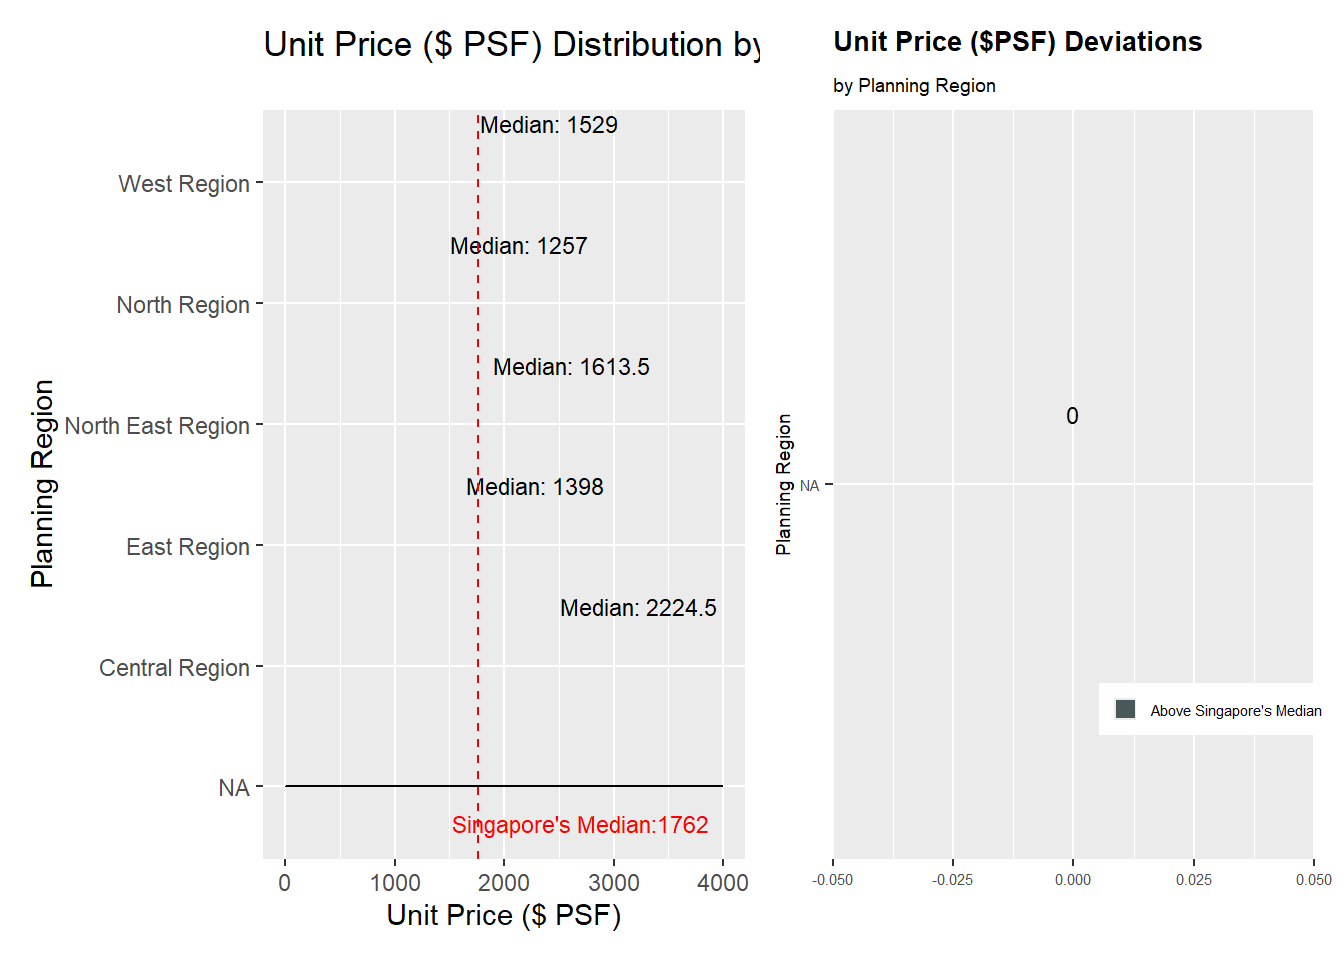
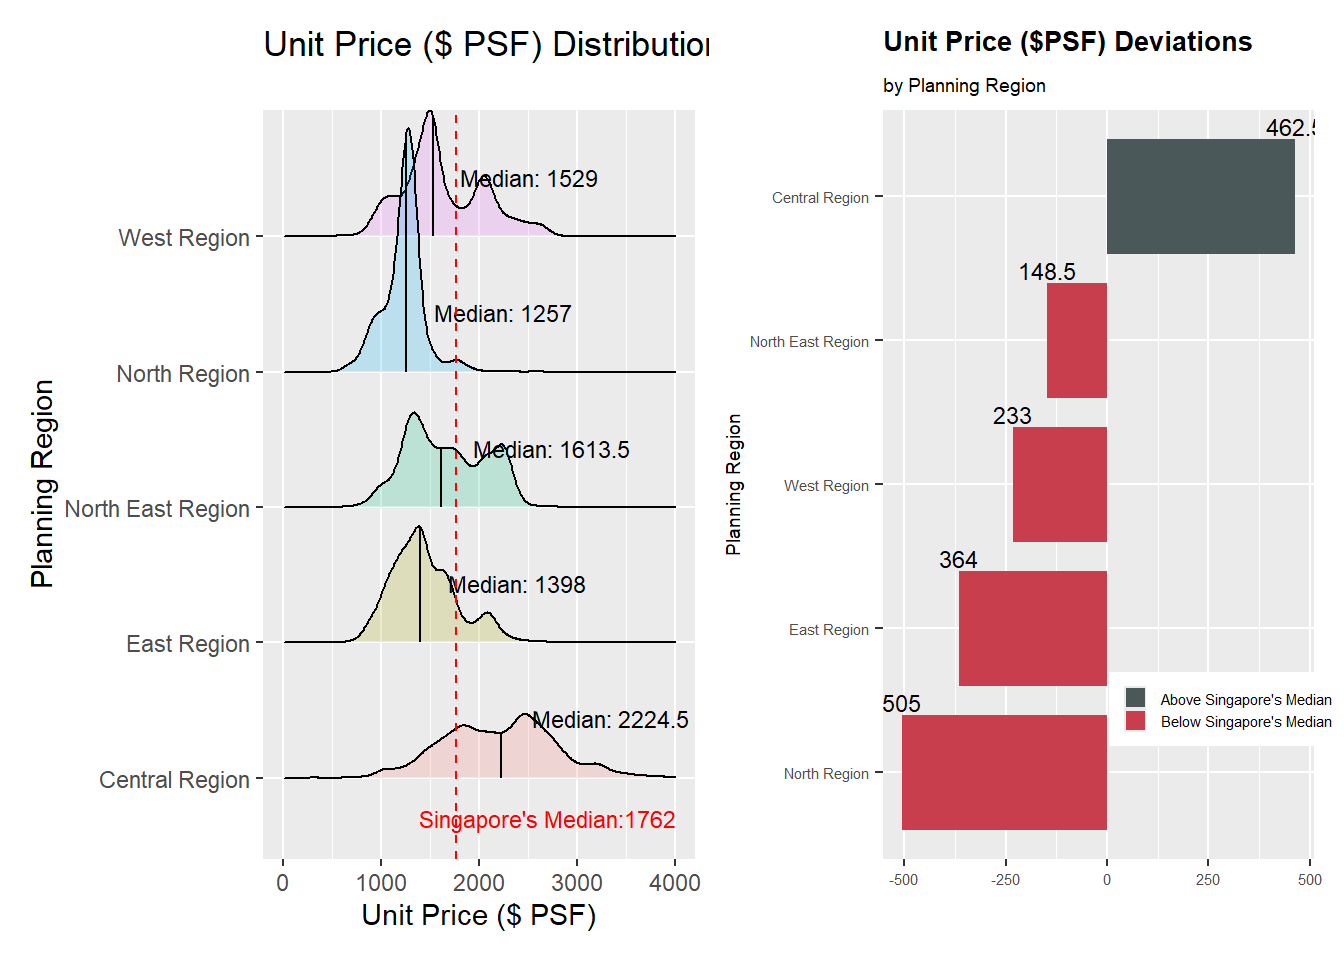
commit

diff --git a/_site/Take-home Exercise/Take-home_Ex02/Take-home_Ex02.html b/_site/Take-home Exercise/Take-home_Ex02/Take-home_Ex02.html
@@ -563,33 +563,29 @@ pre > code.sourceCode > span > a:first-child::before { text-decoration: underlin
 <span id="cb7-2"><a href="#cb7-2" aria-hidden="true" tabindex="-1"></a>  <span class="fu">mutate</span>(<span class="st">`</span><span class="at">Planning Region</span><span class="st">`</span> <span class="ot">=</span> <span class="fu">factor</span>(<span class="st">`</span><span class="at">Planning Region</span><span class="st">`</span>, <span class="at">levels =</span> median_values<span class="sc">$</span><span class="st">`</span><span class="at">Planning Region</span><span class="st">`</span>[<span class="fu">order</span>(median_values<span class="sc">$</span>median_value)]))</span></code><button title="Copy to Clipboard" class="code-copy-button"><i class="bi"></i></button></pre></div>
 </div>
 <div class="cell">
-<div class="sourceCode cell-code" id="cb8"><pre class="sourceCode r code-with-copy"><code class="sourceCode r"><span id="cb8-1"><a href="#cb8-1" aria-hidden="true" tabindex="-1"></a>combined_ds<span class="sc">$</span><span class="st">`</span><span class="at">Planning Region</span><span class="st">`</span> <span class="ot">&lt;-</span> <span class="fu">factor</span>(combined_ds<span class="sc">$</span><span class="st">`</span><span class="at">Planning Region</span><span class="st">`</span> , <span class="at">levels =</span> <span class="fu">c</span>(<span class="st">"North"</span>, <span class="st">"East"</span>, <span class="st">"West"</span>, <span class="st">"North East"</span>, <span class="st">"Central"</span>), <span class="at">ordered =</span> <span class="cn">TRUE</span>)</span>
-<span id="cb8-2"><a href="#cb8-2" aria-hidden="true" tabindex="-1"></a></span>
-<span id="cb8-3"><a href="#cb8-3" aria-hidden="true" tabindex="-1"></a></span>
-<span id="cb8-4"><a href="#cb8-4" aria-hidden="true" tabindex="-1"></a></span>
-<span id="cb8-5"><a href="#cb8-5" aria-hidden="true" tabindex="-1"></a>p1 <span class="ot">&lt;-</span> <span class="fu">ggplot</span>(combined_ds, </span>
-<span id="cb8-6"><a href="#cb8-6" aria-hidden="true" tabindex="-1"></a>       <span class="fu">aes</span>(<span class="at">x =</span> <span class="st">`</span><span class="at">Unit Price ($ PSF)</span><span class="st">`</span>, </span>
-<span id="cb8-7"><a href="#cb8-7" aria-hidden="true" tabindex="-1"></a>           <span class="at">y =</span> <span class="st">`</span><span class="at">Planning Region</span><span class="st">`</span>,</span>
-<span id="cb8-8"><a href="#cb8-8" aria-hidden="true" tabindex="-1"></a>           <span class="at">fill =</span> <span class="st">`</span><span class="at">Planning Region</span><span class="st">`</span>)) <span class="sc">+</span></span>
-<span id="cb8-9"><a href="#cb8-9" aria-hidden="true" tabindex="-1"></a>   <span class="fu">geom_density_ridges</span>(<span class="at">alpha =</span> <span class="fl">0.2</span>, <span class="at">quantile_lines =</span> <span class="cn">TRUE</span>, <span class="at">quantile_fun =</span> <span class="cf">function</span>(x, ...) <span class="fu">median</span>(x))  <span class="sc">+</span></span>
-<span id="cb8-10"><a href="#cb8-10" aria-hidden="true" tabindex="-1"></a>  <span class="fu">geom_text</span>(<span class="at">data =</span> median_values, </span>
-<span id="cb8-11"><a href="#cb8-11" aria-hidden="true" tabindex="-1"></a>            <span class="fu">aes</span>(<span class="at">x =</span> median_value, </span>
-<span id="cb8-12"><a href="#cb8-12" aria-hidden="true" tabindex="-1"></a>                <span class="at">y =</span> <span class="st">`</span><span class="at">Planning Region</span><span class="st">`</span>, </span>
-<span id="cb8-13"><a href="#cb8-13" aria-hidden="true" tabindex="-1"></a>                <span class="at">label =</span> <span class="fu">paste</span>(<span class="st">"Median:"</span>, <span class="fu">round</span>(median_value, <span class="dv">2</span>))),</span>
-<span id="cb8-14"><a href="#cb8-14" aria-hidden="true" tabindex="-1"></a>            <span class="at">hjust =</span> <span class="sc">-</span><span class="fl">0.2</span>, </span>
-<span id="cb8-15"><a href="#cb8-15" aria-hidden="true" tabindex="-1"></a>            <span class="at">vjust =</span> <span class="sc">-</span><span class="fl">2.8</span>, </span>
-<span id="cb8-16"><a href="#cb8-16" aria-hidden="true" tabindex="-1"></a>            <span class="at">color =</span> <span class="st">"black"</span>, </span>
-<span id="cb8-17"><a href="#cb8-17" aria-hidden="true" tabindex="-1"></a>            <span class="at">size =</span> <span class="dv">3</span>) <span class="sc">+</span></span>
-<span id="cb8-18"><a href="#cb8-18" aria-hidden="true" tabindex="-1"></a>  <span class="fu">labs</span>(<span class="at">title =</span> <span class="st">"Unit Price ($ PSF) Distribution by Planning Region"</span>,</span>
-<span id="cb8-19"><a href="#cb8-19" aria-hidden="true" tabindex="-1"></a>       <span class="at">x =</span> <span class="st">"Unit Price ($ PSF)"</span>,</span>
-<span id="cb8-20"><a href="#cb8-20" aria-hidden="true" tabindex="-1"></a>       <span class="at">y =</span> <span class="st">"Planning Region"</span>) <span class="sc">+</span></span>
-<span id="cb8-21"><a href="#cb8-21" aria-hidden="true" tabindex="-1"></a>  <span class="fu">geom_vline</span>(<span class="fu">aes</span>(<span class="at">xintercept =</span> <span class="fu">median</span>(<span class="st">`</span><span class="at">Unit Price ($ PSF)</span><span class="st">`</span>)), <span class="at">col=</span><span class="st">"red"</span>, <span class="at">linewidth=</span><span class="fl">0.5</span>, <span class="at">linetype =</span> <span class="st">"dashed"</span>) <span class="sc">+</span></span>
-<span id="cb8-22"><a href="#cb8-22" aria-hidden="true" tabindex="-1"></a>  <span class="fu">annotate</span>(<span class="st">"text"</span>, <span class="at">x=</span><span class="dv">2700</span>, <span class="at">y=</span><span class="fl">0.7</span>, <span class="at">label=</span><span class="fu">paste0</span>(<span class="st">"Singapore's Median:"</span>,<span class="fu">median</span>(combined_ds<span class="sc">$</span><span class="st">`</span><span class="at">Unit Price ($ PSF)</span><span class="st">`</span>)), </span>
-<span id="cb8-23"><a href="#cb8-23" aria-hidden="true" tabindex="-1"></a>           <span class="at">size=</span><span class="dv">3</span>, <span class="at">color=</span><span class="st">"red"</span>) <span class="sc">+</span></span>
-<span id="cb8-24"><a href="#cb8-24" aria-hidden="true" tabindex="-1"></a>   <span class="fu">guides</span>(<span class="at">fill =</span> <span class="cn">FALSE</span>) <span class="sc">+</span> <span class="co"># Remove legend for Planning Region</span></span>
-<span id="cb8-25"><a href="#cb8-25" aria-hidden="true" tabindex="-1"></a>  <span class="fu">xlim</span>(<span class="dv">0</span>, <span class="dv">4000</span>) <span class="co"># Limit x-axis to 4000</span></span>
-<span id="cb8-26"><a href="#cb8-26" aria-hidden="true" tabindex="-1"></a></span>
-<span id="cb8-27"><a href="#cb8-27" aria-hidden="true" tabindex="-1"></a>p1</span></code><button title="Copy to Clipboard" class="code-copy-button"><i class="bi"></i></button></pre></div>
+<div class="sourceCode cell-code" id="cb8"><pre class="sourceCode r code-with-copy"><code class="sourceCode r"><span id="cb8-1"><a href="#cb8-1" aria-hidden="true" tabindex="-1"></a>p1 <span class="ot">&lt;-</span> <span class="fu">ggplot</span>(combined_ds, </span>
+<span id="cb8-2"><a href="#cb8-2" aria-hidden="true" tabindex="-1"></a>       <span class="fu">aes</span>(<span class="at">x =</span> <span class="st">`</span><span class="at">Unit Price ($ PSF)</span><span class="st">`</span>, </span>
+<span id="cb8-3"><a href="#cb8-3" aria-hidden="true" tabindex="-1"></a>           <span class="at">y =</span> <span class="st">`</span><span class="at">Planning Region</span><span class="st">`</span>,</span>
+<span id="cb8-4"><a href="#cb8-4" aria-hidden="true" tabindex="-1"></a>           <span class="at">fill =</span> <span class="st">`</span><span class="at">Planning Region</span><span class="st">`</span>)) <span class="sc">+</span></span>
+<span id="cb8-5"><a href="#cb8-5" aria-hidden="true" tabindex="-1"></a>   <span class="fu">geom_density_ridges</span>(<span class="at">alpha =</span> <span class="fl">0.2</span>, <span class="at">quantile_lines =</span> <span class="cn">TRUE</span>, <span class="at">quantile_fun =</span> <span class="cf">function</span>(x, ...) <span class="fu">median</span>(x))  <span class="sc">+</span></span>
+<span id="cb8-6"><a href="#cb8-6" aria-hidden="true" tabindex="-1"></a>  <span class="fu">geom_text</span>(<span class="at">data =</span> median_values, </span>
+<span id="cb8-7"><a href="#cb8-7" aria-hidden="true" tabindex="-1"></a>            <span class="fu">aes</span>(<span class="at">x =</span> median_value, </span>
+<span id="cb8-8"><a href="#cb8-8" aria-hidden="true" tabindex="-1"></a>                <span class="at">y =</span> <span class="st">`</span><span class="at">Planning Region</span><span class="st">`</span>, </span>
+<span id="cb8-9"><a href="#cb8-9" aria-hidden="true" tabindex="-1"></a>                <span class="at">label =</span> <span class="fu">paste</span>(<span class="st">"Median:"</span>, <span class="fu">round</span>(median_value, <span class="dv">2</span>))),</span>
+<span id="cb8-10"><a href="#cb8-10" aria-hidden="true" tabindex="-1"></a>            <span class="at">hjust =</span> <span class="sc">-</span><span class="fl">0.2</span>, </span>
+<span id="cb8-11"><a href="#cb8-11" aria-hidden="true" tabindex="-1"></a>            <span class="at">vjust =</span> <span class="sc">-</span><span class="fl">2.8</span>, </span>
+<span id="cb8-12"><a href="#cb8-12" aria-hidden="true" tabindex="-1"></a>            <span class="at">color =</span> <span class="st">"black"</span>, </span>
+<span id="cb8-13"><a href="#cb8-13" aria-hidden="true" tabindex="-1"></a>            <span class="at">size =</span> <span class="dv">3</span>) <span class="sc">+</span></span>
+<span id="cb8-14"><a href="#cb8-14" aria-hidden="true" tabindex="-1"></a>  <span class="fu">labs</span>(<span class="at">title =</span> <span class="st">"Unit Price ($ PSF) Distribution by Planning Region"</span>,</span>
+<span id="cb8-15"><a href="#cb8-15" aria-hidden="true" tabindex="-1"></a>       <span class="at">x =</span> <span class="st">"Unit Price ($ PSF)"</span>,</span>
+<span id="cb8-16"><a href="#cb8-16" aria-hidden="true" tabindex="-1"></a>       <span class="at">y =</span> <span class="st">"Planning Region"</span>) <span class="sc">+</span></span>
+<span id="cb8-17"><a href="#cb8-17" aria-hidden="true" tabindex="-1"></a>  <span class="fu">geom_vline</span>(<span class="fu">aes</span>(<span class="at">xintercept =</span> <span class="fu">median</span>(<span class="st">`</span><span class="at">Unit Price ($ PSF)</span><span class="st">`</span>)), <span class="at">col=</span><span class="st">"red"</span>, <span class="at">linewidth=</span><span class="fl">0.5</span>, <span class="at">linetype =</span> <span class="st">"dashed"</span>) <span class="sc">+</span></span>
+<span id="cb8-18"><a href="#cb8-18" aria-hidden="true" tabindex="-1"></a>  <span class="fu">annotate</span>(<span class="st">"text"</span>, <span class="at">x=</span><span class="dv">2700</span>, <span class="at">y=</span><span class="fl">0.7</span>, <span class="at">label=</span><span class="fu">paste0</span>(<span class="st">"Singapore's Median:"</span>,<span class="fu">median</span>(combined_ds<span class="sc">$</span><span class="st">`</span><span class="at">Unit Price ($ PSF)</span><span class="st">`</span>)), </span>
+<span id="cb8-19"><a href="#cb8-19" aria-hidden="true" tabindex="-1"></a>           <span class="at">size=</span><span class="dv">3</span>, <span class="at">color=</span><span class="st">"red"</span>) <span class="sc">+</span></span>
+<span id="cb8-20"><a href="#cb8-20" aria-hidden="true" tabindex="-1"></a>   <span class="fu">guides</span>(<span class="at">fill =</span> <span class="cn">FALSE</span>) <span class="sc">+</span> <span class="co"># Remove legend for Planning Region</span></span>
+<span id="cb8-21"><a href="#cb8-21" aria-hidden="true" tabindex="-1"></a>  <span class="fu">xlim</span>(<span class="dv">0</span>, <span class="dv">4000</span>) </span>
+<span id="cb8-22"><a href="#cb8-22" aria-hidden="true" tabindex="-1"></a></span>
+<span id="cb8-23"><a href="#cb8-23" aria-hidden="true" tabindex="-1"></a>p1 </span></code><button title="Copy to Clipboard" class="code-copy-button"><i class="bi"></i></button></pre></div>
 <div class="cell-output-display">
 <div>
 <figure class="figure">
